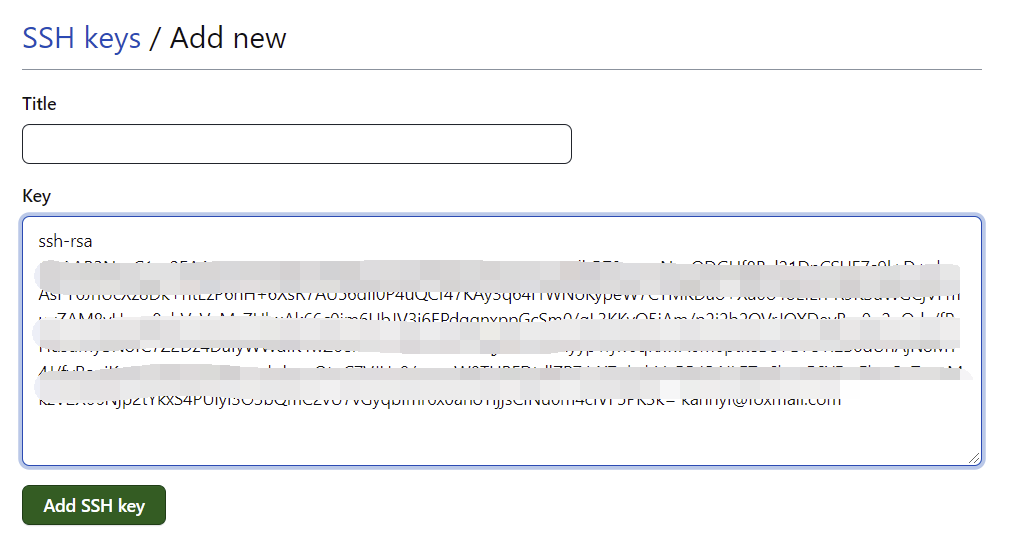
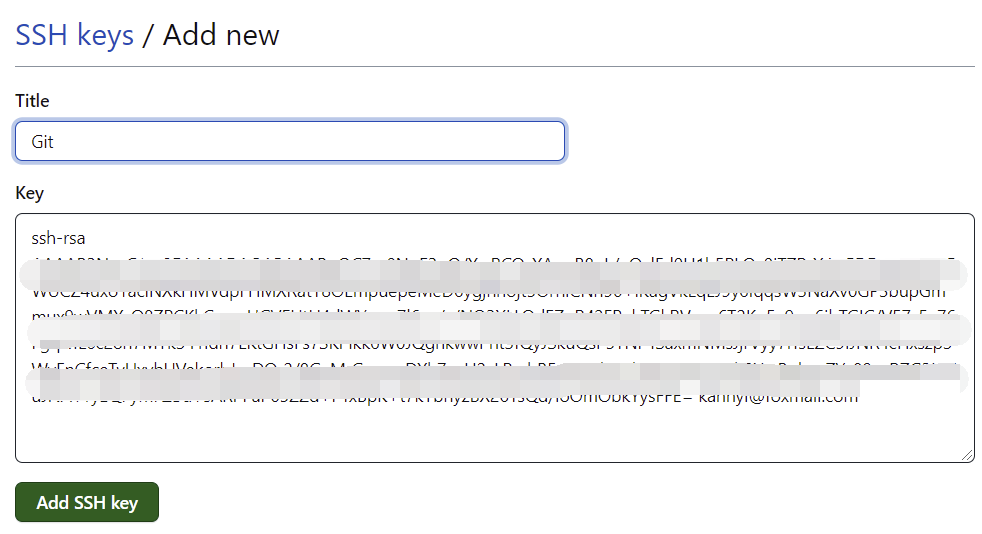
Update

Changed region(s): [[0.0, 0.1798, 1.0, 0.9888], [0.0, 0.03, 0.9776, 0.1498], [0.2138, 0.4794, 0.9165, 0.5094]]

diff --git a/README.md b/README.md
@@ -21,18 +21,22 @@ git config --global --list #查看配置信息
 ![](Images/4.png)
 
 ```
-git remote add origin git@github.com:MyKannyi/Git.git #add一个已经存在的仓库到我们的远程仓库，origin是远程仓库的一个代号，不一定要使用origin这个单词，此处我选用Git作为代号，使用命令时必须处于该仓库的路径下！
+git remote add Git git@github.com:MyKannyi/Git.git #add一个已经存在的仓库到我们的远程仓库，Git是远程仓库的一个代号，不一定要使用Git这个单词
+cd D:/LocalRepository/Git #使用命令时必须处于该仓库的路径下！
 git remote #验证远程仓库是否添加成功
 ssh-keygen -t rsa -C "kannyi@foxmail.com"
 
-#操作：一直回车
+#操作：一般除了保存key的文件名需要自己设置外，剩下的操作只需要一直回车即可，此处我设置为
+/c/Users/Kannyi/.ssh/Git_id_rsa
 
-cd /Users/kannyi/.ssh #进入之前所提示的路径
+cd /c/Users/kannyi/.ssh
 ls
-cat id_rsa.pub #查看公钥里面有什么内容
+cat Git_id_rsa.pub #查看公钥里面有什么内容
 
 #操作：复制公钥的内容
 ```
+
+**保存key的文件名：**
 
 ![](Images/5.png)
 
@@ -51,19 +55,69 @@ cat id_rsa.pub #查看公钥里面有什么内容
 ```
 ssh -T git@github.com #测试一下本地和远程的GitHub是否能成功建立连接
 
-#操作：输入yes
+#操作：输入yes（如果有的话）
 
 cd D:/LocalRepository/Git #成功通过认证后，返回我们的Git仓库
-git push -u origin master #push一个已经存在的仓库到我们的远程仓库
+git push -u Git master #push一个已经存在的仓库到我们的远程仓库
 ```
 
 
 
-## 操作示例
+## Fork他人仓库
+
+**先点击Fork：**
+
+![](Images/10.png)
+
+**选择SSH，并点击复制：**
+
+![](Images/9.png)
+
+```
+pwd #查看当前在什么路径下面
+cd .. #返回上级目录
+git clone git@github.com:MyKannyi/Go-000.git #将fork后的仓库clone到本地，千万不要在一个已存在的Git仓库中使用git clone命令！
+cd Go-000/
+git remote add Go-000 git@github.com:MyKannyi/Go-000.git
+git remote #验证远程仓库是否添加成功
+ssh-keygen -t rsa -C "kannyi@foxmail.com"
+
+#操作：一般除了保存key的文件名需要自己设置外，剩下的操作只需要一直回车即可，此处我设置为/c/Users/Kannyi/.ssh/Go-000_id_rsa
+
+cd /c/Users/kannyi/.ssh
+ls
+cat Go-000_id_rsa.pub #查看公钥里面有什么内容
+
+#操作：复制公钥的内容
+```
+
+**保存key的文件名：**
+
+![](Images/11.png)
+
+**进入Settings：**
+
+![](Images/6.png)
+
+**创建新的SSH key：**
+
+![](Images/7.png)
+
+**粘贴公钥的内容：**
+
+![](Images/12.png)
+
+```
+ssh -T git@github.com #测试一下本地和远程的GitHub是否能成功建立连接
+```
+
+
+
+## 关键操作示例
 
 ```
 cd D:/LocalRepository/Git
-git status #发现没有新东西要提交
+git status #查看是否有新东西要提交
 pwd #查看当前目录
 
 #操作：假设往该文件夹中放了一个新文件learn_git.html
@@ -102,4 +156,3 @@ git remote #再次查看，发现远程仓库Git被移除
 ```
 git push -f origin master #它会忽略版本不一致等问题，强制将本地库上传到远程库，远程库将会被本地库覆盖，慎用！
 ```
-m
